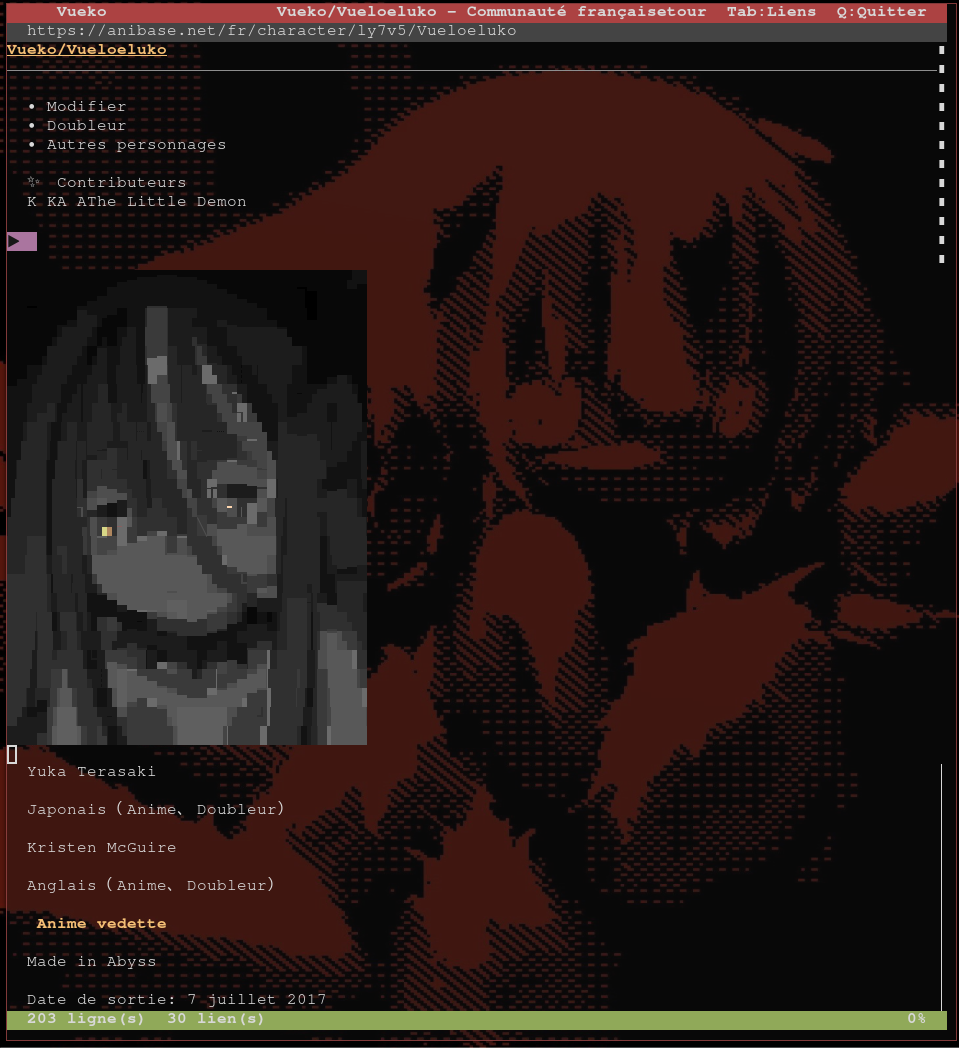
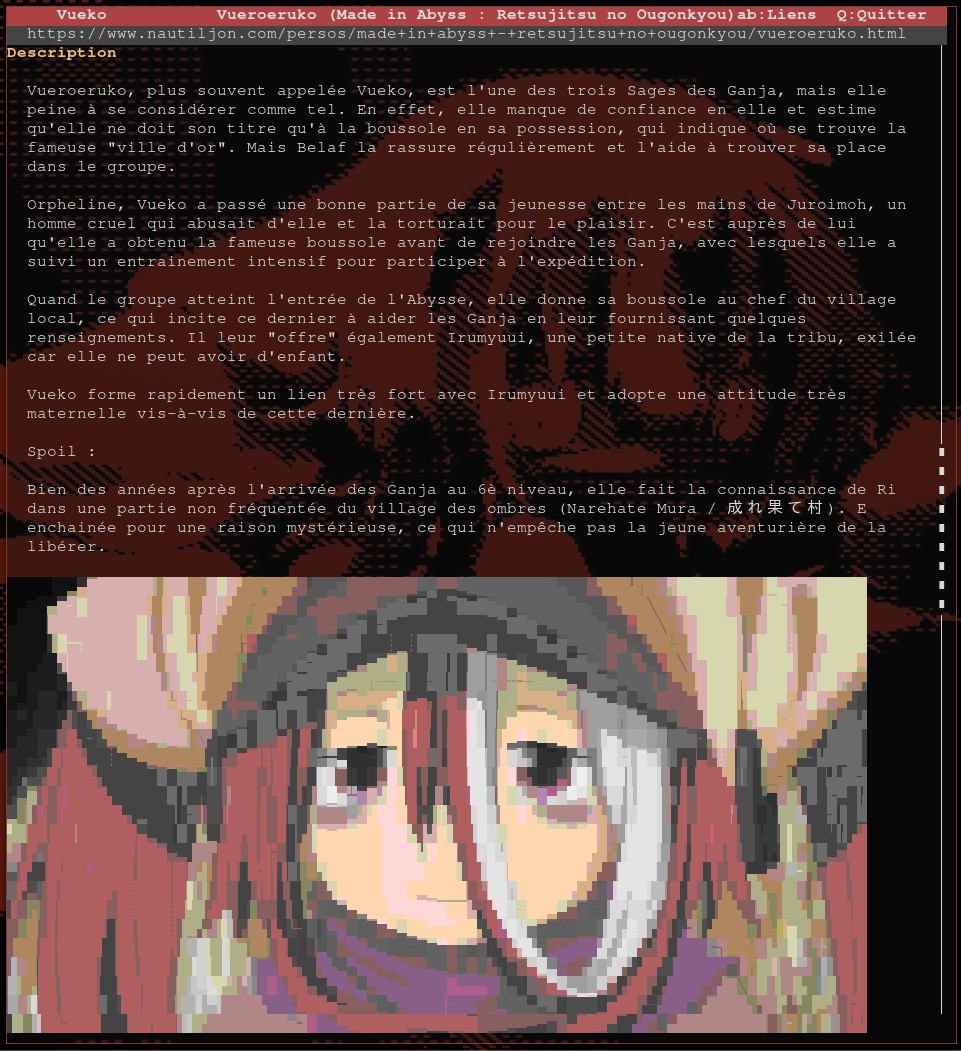
Add files via upload

diff --git a/browser.c b/browser.c
@@ -343,27 +343,15 @@ static void parse_im_line(const char *line,
     }
 }
 
-/* Largeur d'affichage réelle : taille naturelle de l'image en colonnes,
-   plafonnée à term_w. ~8 pixels par colonne de terminal. */
-static int calc_img_display_w(int orig_w, int term_w) {
-    if (orig_w > 0) {
-        int cols = orig_w / 8;
-        if (cols < 4)      cols = 4;
-        if (cols > term_w) cols = term_w;
-        return cols;
-    }
-    return term_w;  /* dimensions inconnues → pleine largeur */
-}
-
 static int calc_img_h(int orig_w, int orig_h, int term_w, int term_h) {
-    /* Cellule terminal ≈ 8px large × 16px haute → ratio vertical = 0.5 */
-    int disp_w = calc_img_display_w(orig_w, term_w);
+    /* Chaque cellule terminal ≈ 2× plus haute que large (ratio 1:2) */
     if (orig_w > 0 && orig_h > 0) {
-        int h = (int)((double)orig_h / (double)orig_w * (double)disp_w * 0.5);
-        if (h < 3)          h = 3;
-        if (h > term_h / 2) h = term_h / 2;
+        int h = (int)((double)orig_h / (double)orig_w * (double)term_w * 0.5);
+        if (h < 3)        h = 3;
+        if (h > term_h / 2) h = term_h / 2;  /* max : moitié écran */
         return h;
     }
+    /* Pas de métadonnées : 1/4 écran par défaut (moins invasif) */
     int h = term_h / 4;
     if (h < 4) h = 4;
     return h;
@@ -380,68 +368,77 @@ static void draw_images_overlay(WINDOW *win) {
     getbegyx(win, by, bx);
     (void)bx;
 
-    int img_h = height / 2;  /* sera recalculé par image via calc_img_h */
-    int img_w = width - 2;
+    int img_w = width - 3;  /* -3 : 1 marge gauche + 1 marge droite + 1 colonne scrollbar */
 
     /* Reconstruire le cache si le scroll a changé */
     if (img_cache_scroll != page_scroll) {
         img_cache_clear();
         img_cache_scroll = page_scroll;
 
-        for (int i = 0; i < height && img_cache_count < IMG_CACHE_LINES; i++) {
-            int li = page_scroll + i;
-            if (li >= page_lines_count) break;
+        /* si = screen row, li = logical index — must stay in sync with draw_page */
+        int si = 0;
+        for (int li = page_scroll; li < page_lines_count && si < height
+                                   && img_cache_count < IMG_CACHE_LINES; li++) {
             char *line = page_lines[li];
-            if (strncmp(line, "##IM ", 5) != 0) continue;
+            if (strncmp(line, "##IM ", 5) != 0) { si++; continue; }
 
             char imgpath[MAX_LEN];
             int orig_w, orig_h;
             parse_im_line(line, imgpath, MAX_LEN, &orig_w, &orig_h);
-            img_h = calc_img_h(orig_w, orig_h, img_w, height);
-            if (access(imgpath, F_OK) != 0) { i += img_h - 1; continue; }
+            int img_h = calc_img_h(orig_w, orig_h, img_w, height);
+            for (int _ri = 0; _ri < img_real_count; _ri++)
+                if (img_real_line[_ri] == li) { img_h = img_real_h[_ri]; break; }
+            if (img_h < 1) img_h = 1;
 
-            int term_y = by + i + 1;
+            if (access(imgpath, F_OK) != 0) { si += img_h; continue; }
 
-            int disp_w = calc_img_display_w(orig_w, img_w);
+            int term_y = by + si + 1;
+
             char cmd[MAX_LEN * 2];
             snprintf(cmd, sizeof(cmd),
                      "chafa --size=%dx%d --colors=256 --animate=off '%s' 2>/dev/null",
-                     disp_w, img_h, imgpath);
+                     img_w, img_h, imgpath);
 
             FILE *p = popen(cmd, "r");
-            if (!p) { i += img_h - 1; continue; }
+            if (!p) { si += img_h; continue; }
 
             char row[8192];
             int r = 0;
-            while (r < 999 && fgets(row, sizeof(row), p)
+            while (r < img_h && fgets(row, sizeof(row), p)
                    && img_cache_count < IMG_CACHE_LINES) {
                 int len = strlen(row);
                 if (len > 0 && row[len - 1] == '\n') row[len - 1] = '\0';
-                /* Stocker "Y|ligne_ansi" */
                 char entry[8200];
                 snprintf(entry, sizeof(entry), "%d|%s", term_y + r, row);
                 img_cache[img_cache_count++] = strdup(entry);
                 r++;
             }
             pclose(p);
-            if (img_real_count < 256) {
-                img_real_line[img_real_count] = page_scroll + i;
-                img_real_h[img_real_count]    = r;
+            int found = 0;
+            for (int k = 0; k < img_real_count; k++)
+                if (img_real_line[k] == li) { img_real_h[k] = r > 0 ? r : img_h; found = 1; break; }
+            if (!found && img_real_count < 256) {
+                img_real_line[img_real_count] = li;
+                img_real_h[img_real_count]    = r > 0 ? r : img_h;
                 img_real_count++;
             }
-            i += img_h - 1;
+            si += img_h;
         }
     }
 
-    /* Écrire le cache sur le terminal */
+    /* Écrire le cache sur le terminal.
+     * [%dX efface N colonnes depuis la position courante sans toucher la suite —
+     * la scrollbar en colonne (width) est ainsi préservée. */
     int prev_y = -1;
     for (int i = 0; i < img_cache_count; i++) {
         char *e = img_cache[i];
         char *pip = strchr(e, '|');
         if (!pip) continue;
         int y = atoi(e);
-        /* Effacer la ligne avant d'écrire (supprime les résidus ncurses) */
-        if (y != prev_y) printf("\033[%d;1H\033[2K", y);
+        if (y != prev_y) {
+            /* Effacer seulement les colonnes de l'image, pas la scrollbar */
+            printf("\033[%d;1H\033[%dX", y, width - 2);
+        }
         printf("\033[%d;1H%s\033[0m", y, pip + 1);
         prev_y = y;
     }
@@ -556,10 +553,9 @@ static void draw_page(WINDOW *win) {
     if (page_links_count > 0 && page_links_hl < page_links_count)
         next_link_line = link_positions[page_links_hl];
 
-    for (int i = 0; i < height; i++) {
-        int li = page_scroll + i;
-        if (li >= page_lines_count) break;
-
+    /* si = screen row (0..height-1), li = logical index in page_lines[] */
+    int si = 0;
+    for (int li = page_scroll; li < page_lines_count && si < height; li++) {
         char *line = page_lines[li];
         int attr = COLOR_PAIR(CP_NORMAL);
         int prefix_len = 0;
@@ -567,14 +563,14 @@ static void draw_page(WINDOW *win) {
         if (strncmp(line, "##IM ", 5) == 0) {
             char _ip[MAX_LEN]; int _ow, _oh;
             parse_im_line(line, _ip, MAX_LEN, &_ow, &_oh);
-            int img_h = calc_img_h(_ow, _oh, width - 2, height);
+            int img_h = calc_img_h(_ow, _oh, width - 3, height);
             for (int _ri = 0; _ri < img_real_count; _ri++)
                 if (img_real_line[_ri] == li) { img_h = img_real_h[_ri]; break; }
-            for (int r = 0; r < img_h && i + r < height; r++) {
-                wmove(win, i + r, 0);
+            for (int r = 0; r < img_h && si + r < height; r++) {
+                wmove(win, si + r, 0);
                 wclrtoeol(win);
             }
-            i += img_h - 1;
+            si += img_h;
             continue;
 
         } else if (strncmp(line, "##H1 ", 5) == 0) {
@@ -597,14 +593,16 @@ static void draw_page(WINDOW *win) {
         } else if (strncmp(line, "##HR", 4) == 0) {
             wattron(win, COLOR_PAIR(CP_SEPARATOR) | A_DIM);
             for (int c = 0; c < width - 1; c++)
-                mvwaddch(win, i, c, ACS_HLINE);
+                mvwaddch(win, si, c, ACS_HLINE);
             wattroff(win, A_DIM);
+            si++;
             continue;
         }
 
         wattron(win, attr);
-        mvwprintw(win, i, 0, "%.*s", width - 1, line + prefix_len);
+        mvwprintw(win, si, 0, "%.*s", width - 1, line + prefix_len);
         wattroff(win, attr);
+        si++;
     }
 
     if (page_lines_count > height) {
@@ -998,7 +996,7 @@ int main(void) {
             }
             draw_images_overlay(content_win);
         }
-        halfdelay(5);
+        halfdelay(1);
         ch = getch();
         cbreak();
 
@@ -1032,7 +1030,10 @@ int main(void) {
         }
 
         else if (ch == '\t' && mode == MODE_PAGE) {
-            links_panel_open = !links_panel_open;
+            if (page_links_count > 0) {
+                page_links_hl = (page_links_hl + 1) % page_links_count;
+                page_scroll = link_positions[page_links_hl];
+            }
         }
 
         else if (ch == KEY_UP) {

diff --git a/render.py b/render.py
@@ -69,24 +69,22 @@ class Renderer:
 
     def _find_image(self, src):
         """Trouve le fichier image téléchargé correspondant au src HTML."""
-        if not src:
+        if not self.imgs:
             return None
-        src_noq = src.split("?")[0]  # sans query string (?cachebuster=xxx)
-
-        # 1. Chercher dans imgmap : exact, puis sans query string, puis par suffixe
-        for key, fname in self.imgmap.items():
-            key_noq = key.split("?")[0]
-            if (key == src
-                    or key_noq == src_noq
-                    or key.endswith(src)
-                    or key_noq.endswith(src_noq)
-                    or src.endswith(key.split("//", 1)[-1])
-                    or src_noq.endswith(key_noq.split("//", 1)[-1])):
-                path = os.path.join(IMAGE_DIR, fname)
-                if os.path.exists(path):
-                    return path
-
-        # 2. Fallback ordre d'apparition (quand imgmap absent/incomplet)
+        # 1. Chercher dans imgmap par URL exacte
+        if src and src in self.imgmap:
+            fname = self.imgmap[src]
+            path  = os.path.join(IMAGE_DIR, fname)
+            if os.path.exists(path):
+                return path
+        # 2. Chercher dans imgmap par URL avec/sans scheme
+        if src:
+            for key, fname in self.imgmap.items():
+                if key.endswith(src) or src.endswith(key.split("//", 1)[-1]):
+                    path = os.path.join(IMAGE_DIR, fname)
+                    if os.path.exists(path):
+                        return path
+        # 3. Fallback : ordre d'apparition (ancien comportement)
         if self.img_i < len(self.imgs):
             path = os.path.join(IMAGE_DIR, self.imgs[self.img_i])
             self.img_i += 1
@@ -142,6 +140,12 @@ class Renderer:
         if n == "a":
             href = (node.get("href") or "").strip()
             text = " ".join(collect_inline_text(node).split())
+            # Si le <a> contient des images, les traiter d'abord
+            has_img = node.find("img") is not None
+            if has_img:
+                for c in node.children:
+                    self.process(c, in_block=in_block)
+                return
             if not text: return
             if href and href not in ("#", "javascript:void(0)", "javascript:;", ""):
                 self._inline_buf.append(text)
@@ -249,22 +253,12 @@ class Renderer:
         if n == "table":
             self._flush()
             self.blank()
-            inner = self.w - 4  # largeur intérieure entre les │
-            self.lines.append("  ┌" + "─" * inner + "┐")
+            # Traiter chaque cellule avec process() pour capturer images et texte
             for row in node.find_all("tr"):
-                cells = [" ".join(collect_inline_text(c).split())
-                         for c in row.find_all(["td", "th"])]
-                if not any(cells):
-                    continue
-                # Construire la ligne en tronquant au besoin
-                line_content = " │ ".join(cells)
-                # Tronquer pour tenir dans la largeur intérieure
-                if len(line_content) > inner - 1:
-                    line_content = line_content[:inner - 2] + "…"
-                # Padding à droite pour aligner le │ de fermeture
-                padded = line_content.ljust(inner)
-                self.lines.append("  │ " + padded[:inner - 1] + "│")
-            self.lines.append("  └" + "─" * inner + "┘")
+                for cell in row.find_all(["td", "th"]):
+                    for c in cell.children:
+                        self.process(c, in_block=True)
+                self._flush()
             self.blank()
             return
 
@@ -315,7 +309,7 @@ def main():
         r.lines.append(f"##H1 {title_tag.get_text().strip()}")
         r.lines += ["##HR", ""]
 
-    body = soup.find("body") or soup
+    body = soup.find("main") or soup.find("article") or soup.find("body") or soup
     r.process(body)
     r._flush()
 

diff --git a/GET.py b/GET.py
@@ -174,7 +174,7 @@ with sync_playwright() as p:
         document.querySelectorAll('*').forEach(el => {
             const bg = window.getComputedStyle(el).backgroundImage;
             if (bg && bg !== 'none') {
-                const m = bg.match(/url\(["']?([^"')]+)["']?\)/);
+                const m = bg.match(/url[(]["']?([^"')]+)["']?[)]/);
                 if (m && m[1] && !m[1].startsWith('data:')) imgs.add(m[1]);
             }
         });
@@ -227,7 +227,7 @@ def download_image(args):
     except: pass
 
 threads = [threading.Thread(target=download_image, args=((i,u),))
-           for i,u in enumerate(image_urls[:100])]
+           for i,u in enumerate(image_urls[:30])]
 for t in threads: t.start()
 for t in threads: t.join(timeout=12)
 print(f"[GET] {nimg[0]} images téléchargées")
